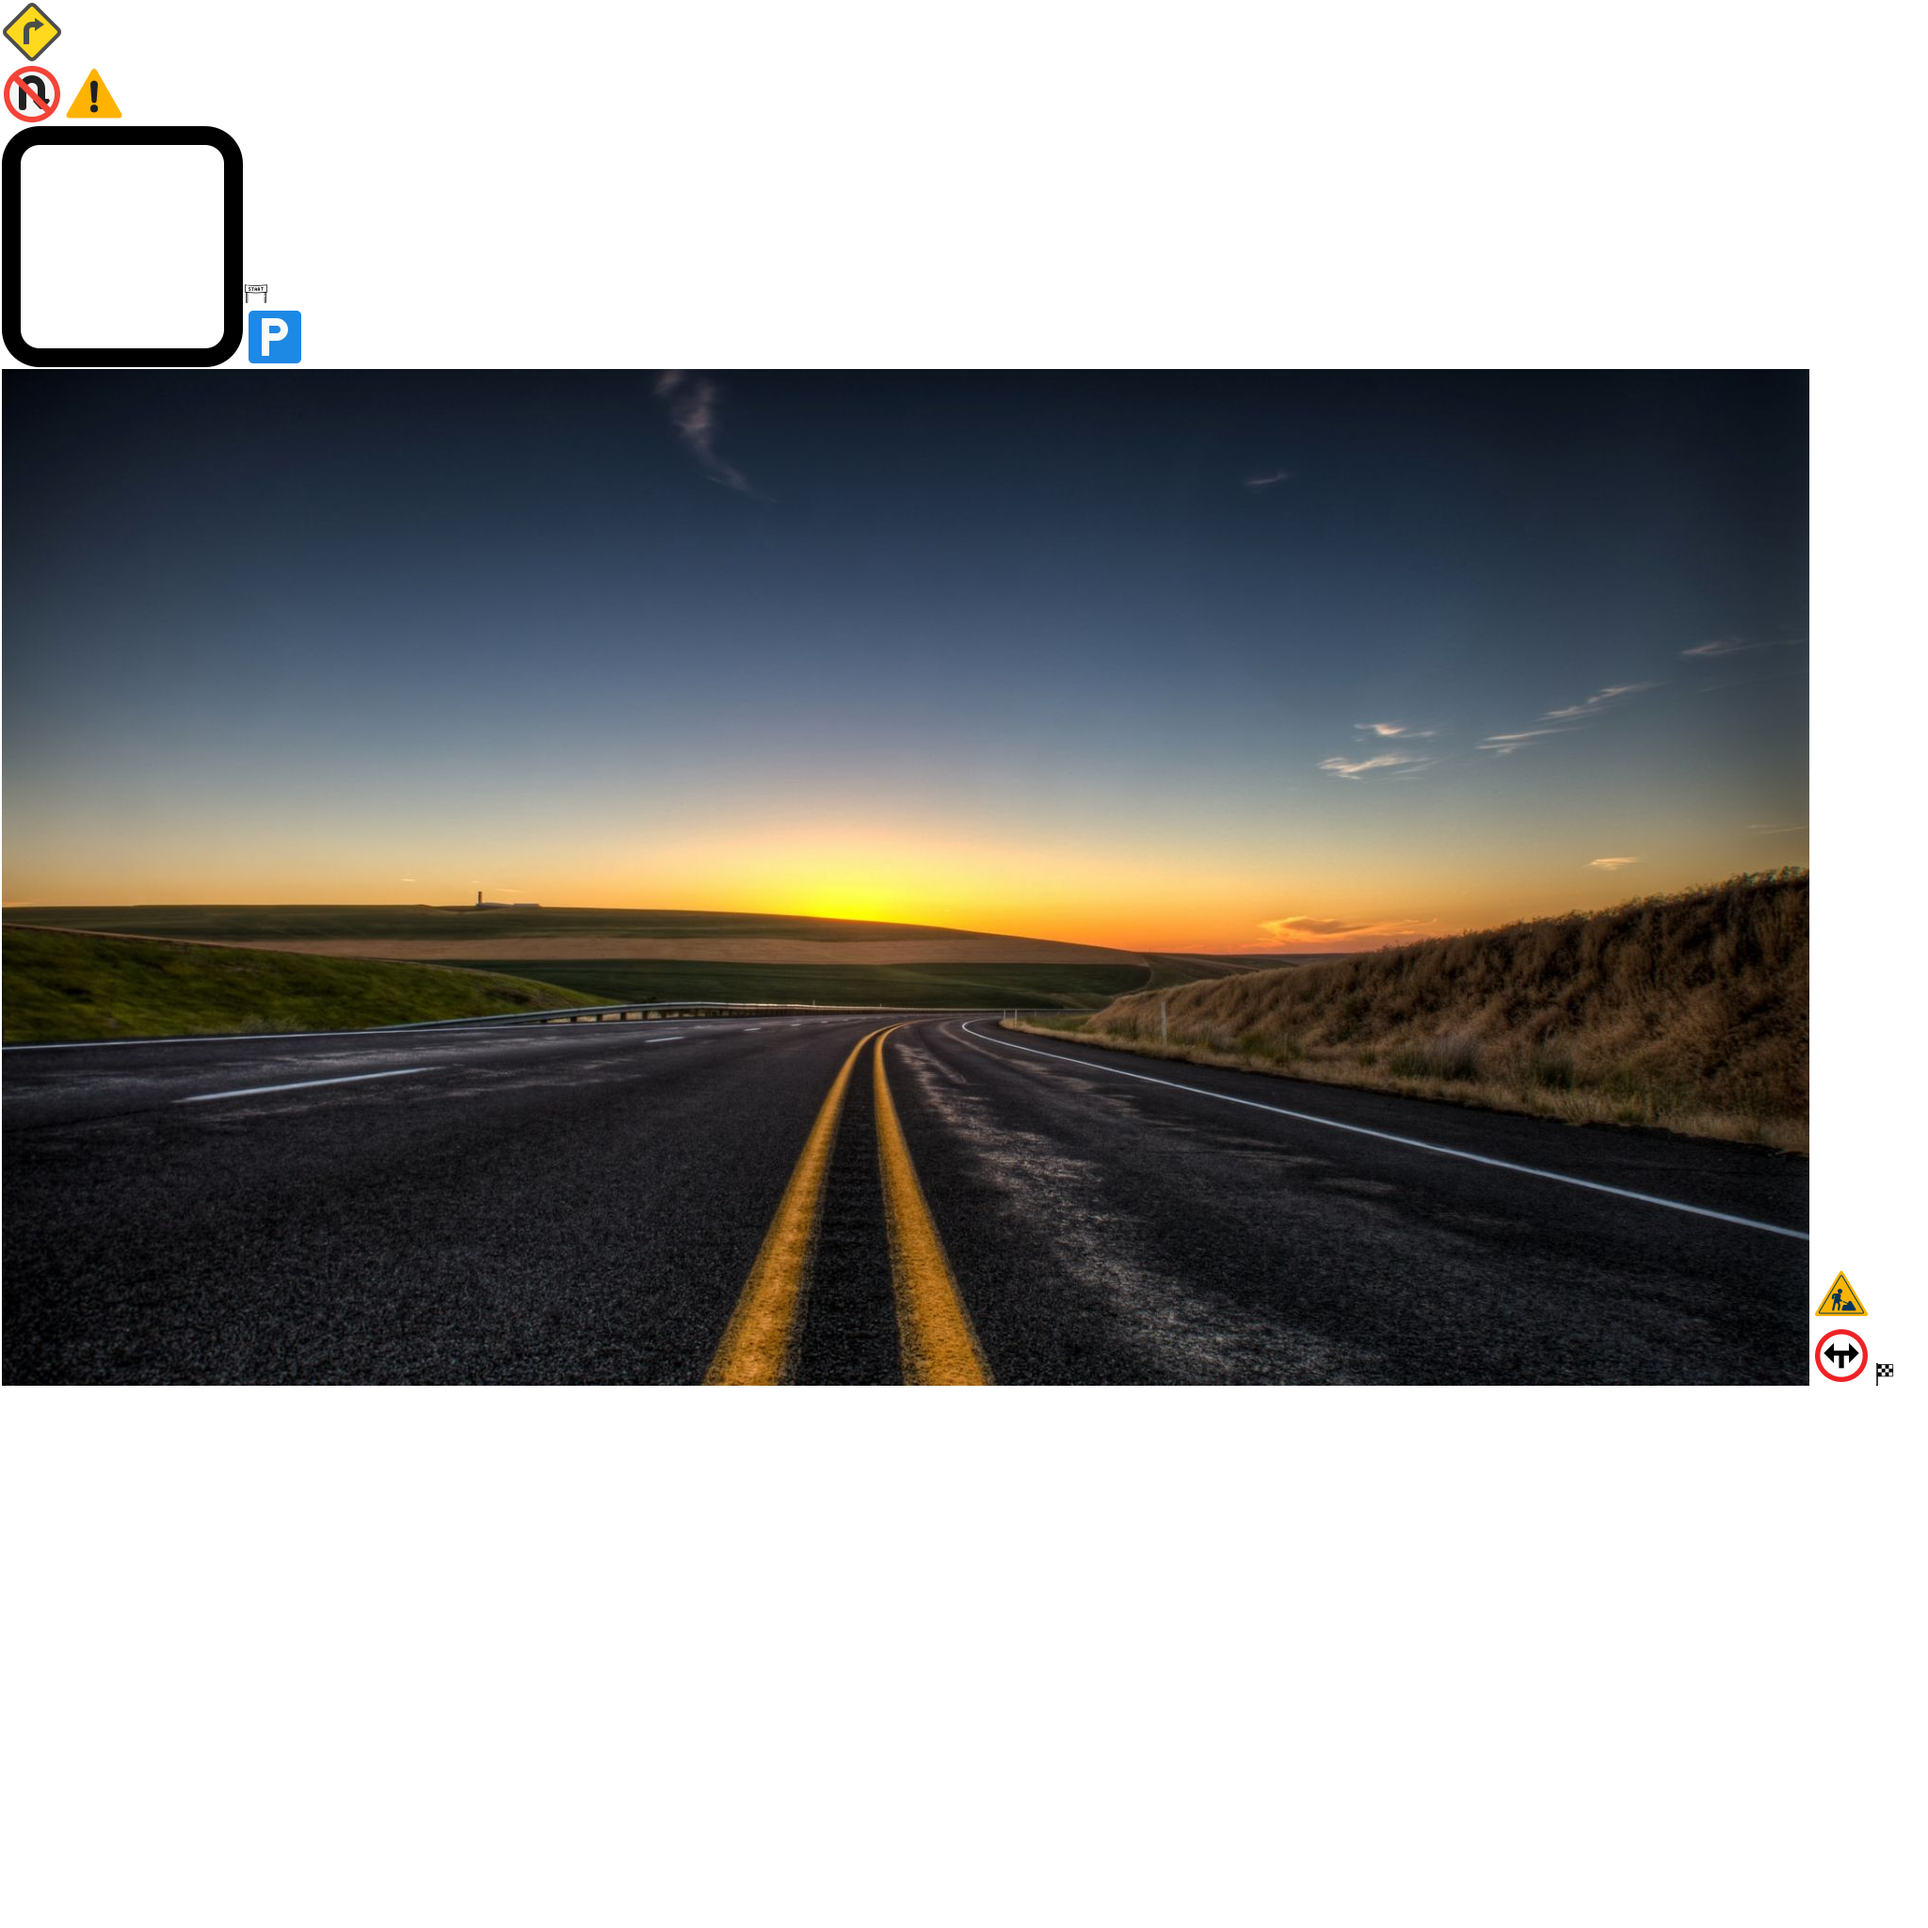
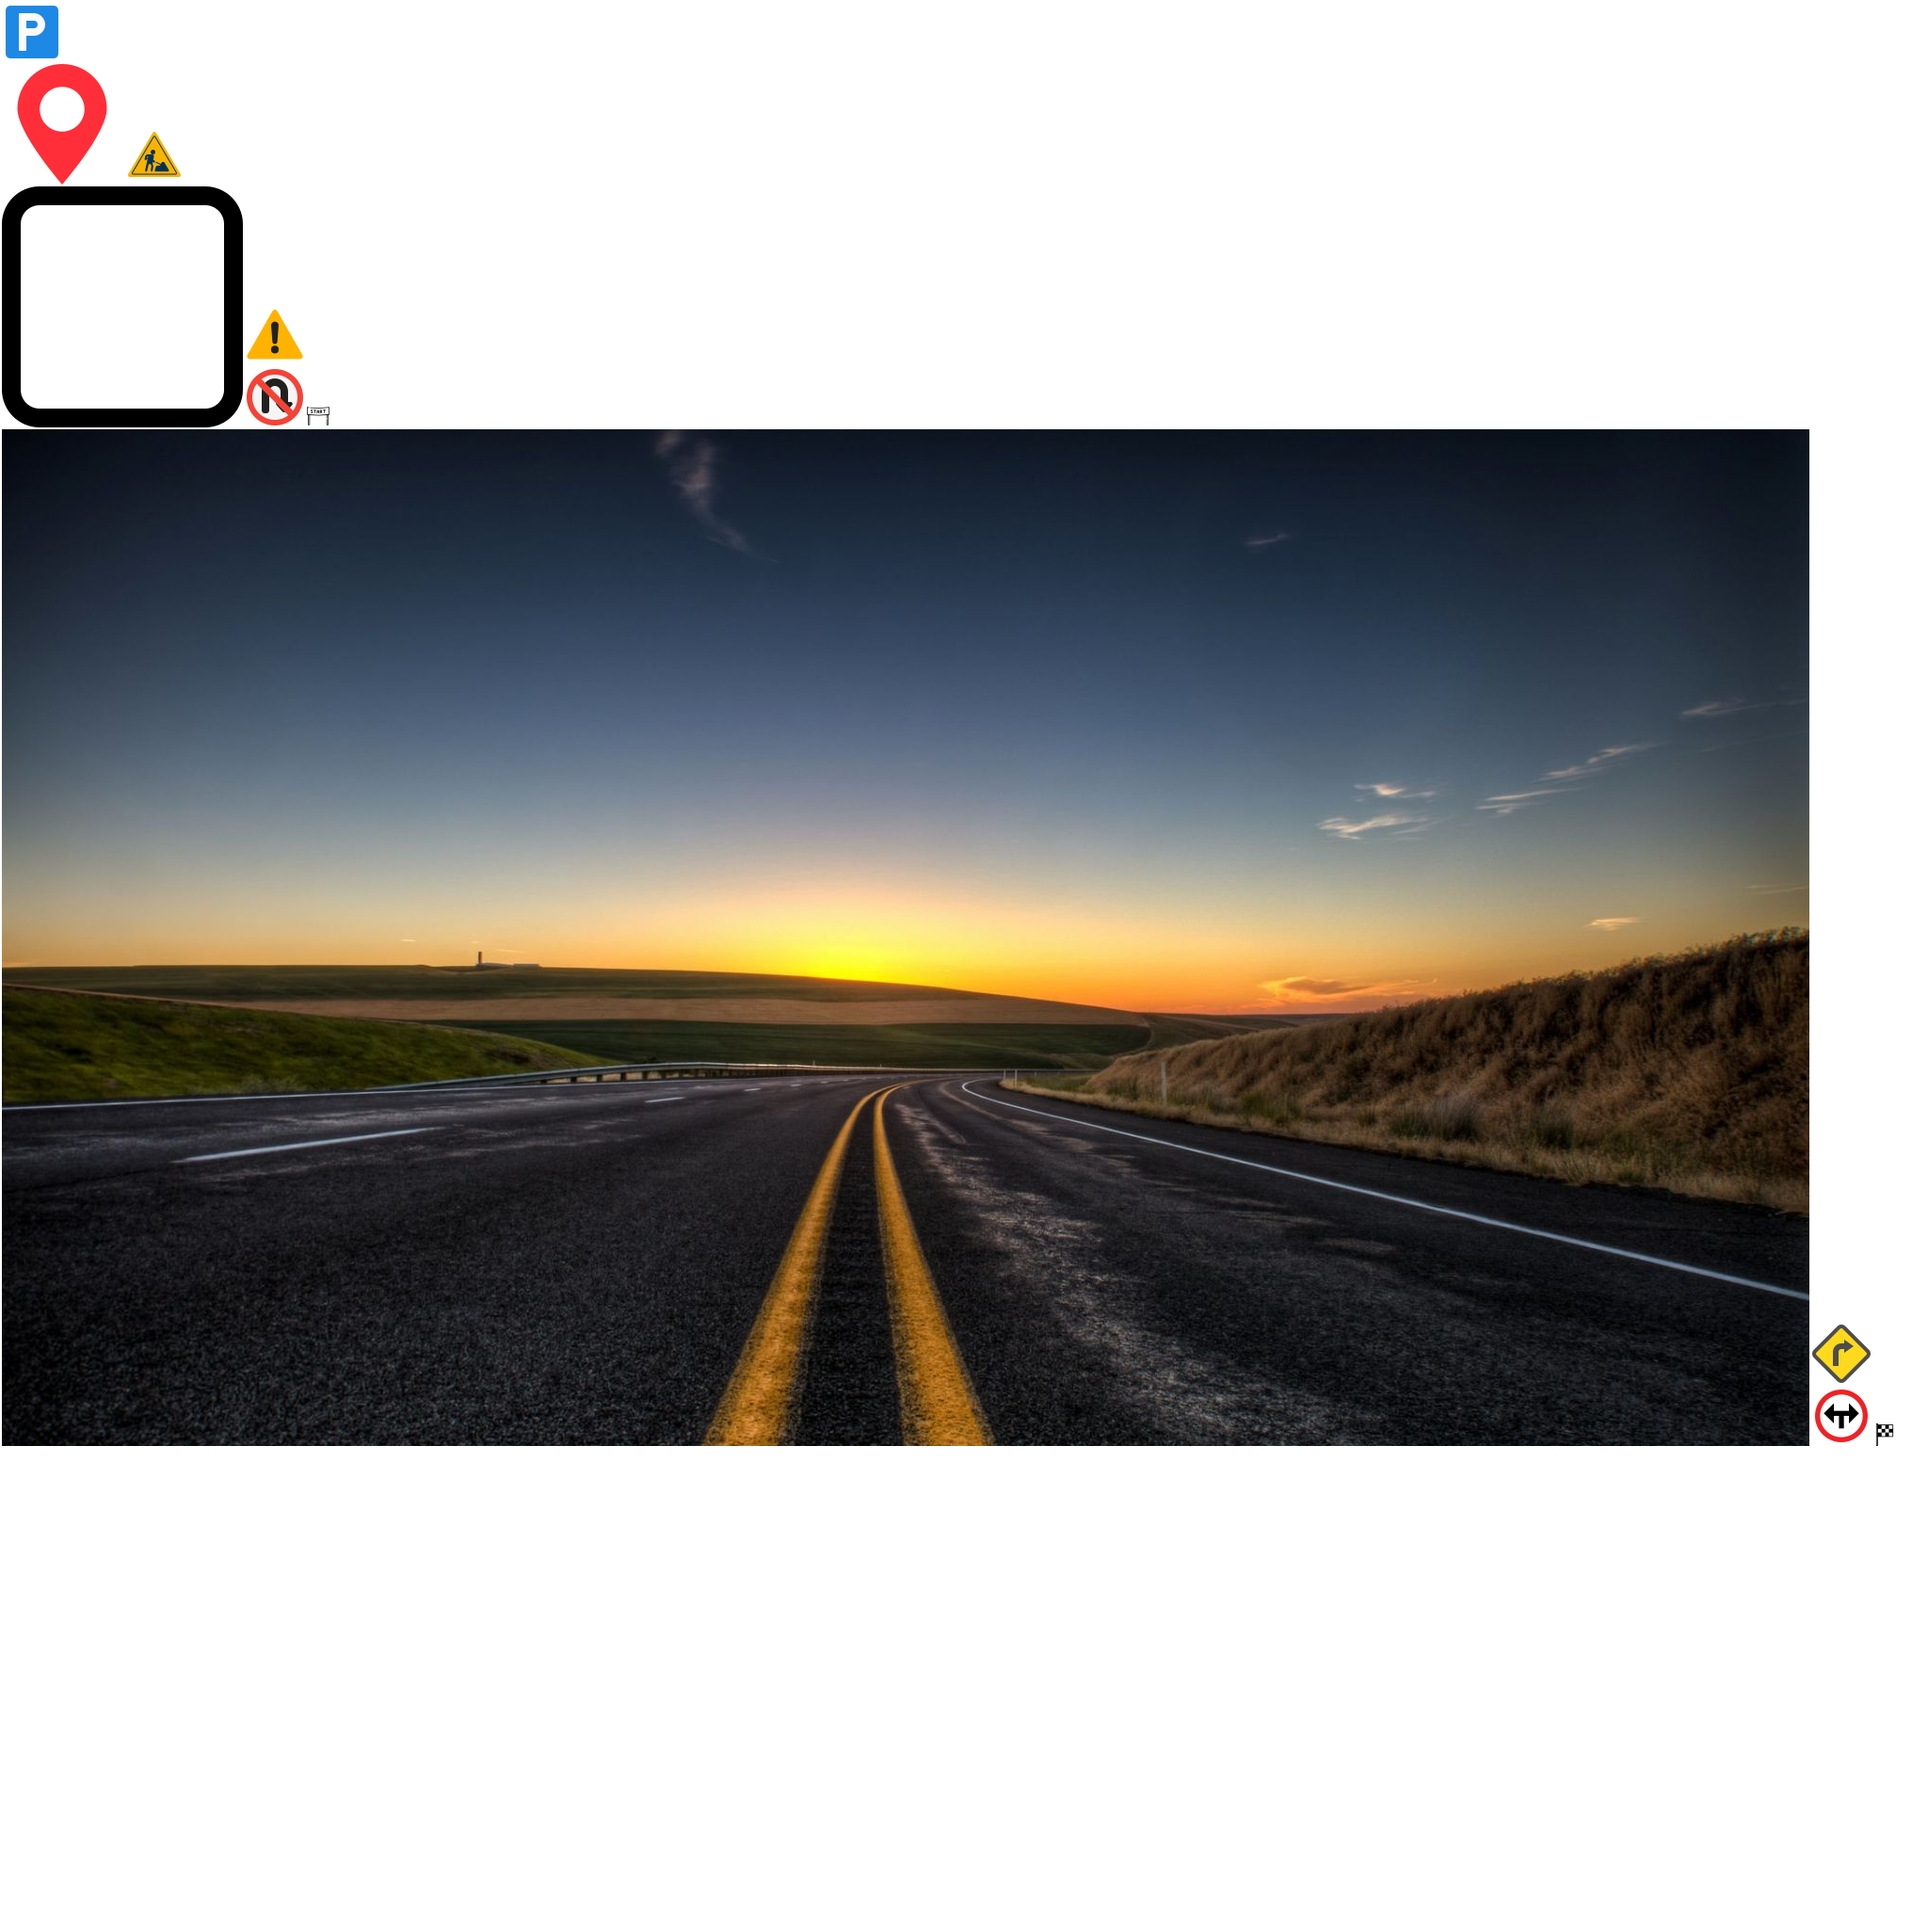
Added marker for db points

diff --git a/RRI_projekt/core/src/main/java/si/um/feri/cestar/screens/GameScreen.java b/RRI_projekt/core/src/main/java/si/um/feri/cestar/screens/GameScreen.java
@@ -87,6 +87,7 @@ public class GameScreen extends ScreenAdapter {
     // Assets
     private TextureRegion startIcon;
     private TextureRegion endIcon;
+    private TextureRegion markerIcon;
     private BitmapFont font;
     private Texture[] mapTiles;
     private ZoomXY beginTile;
@@ -151,6 +152,7 @@ public class GameScreen extends ScreenAdapter {
         TextureAtlas gameplayAtlas = assetManager.get(AssetsDescriptor.GAMEPLAY);
         startIcon = gameplayAtlas.findRegion(RegionNames.START);
         endIcon = gameplayAtlas.findRegion(RegionNames.FINISH);
+        markerIcon = gameplayAtlas.findRegion(RegionNames.MARKER);
 
 
         // Initialize stage for UI (buttons, labels, etc.)
@@ -794,10 +796,10 @@ public class GameScreen extends ScreenAdapter {
 
             // Use a different color or size if the point is highlighted
             if (selectablePoint.isHighlighted) {
-                spriteBatch.draw(startIcon, position.x - 12, position.y - 12, 24, 24);  // Larger icon for highlight
+                spriteBatch.draw(markerIcon, position.x - 12, position.y - 12, 24, 24);  // Larger icon for highlight
                 font.setColor(Color.YELLOW);
             } else {
-                spriteBatch.draw(startIcon, position.x - 8, position.y - 8, 16, 16);  // Normal size
+                spriteBatch.draw(markerIcon, position.x - 8, position.y - 8, 16, 16);  // Normal size
                 font.setColor(Color.BLUE);
             }
             font.draw(spriteBatch, point.getLocationName(), position.x + 10, position.y + 10);

diff --git a/RRI_projekt/core/src/main/java/si/um/feri/cestar/assets/RegionNames.java b/RRI_projekt/core/src/main/java/si/um/feri/cestar/assets/RegionNames.java
@@ -6,4 +6,5 @@ public class RegionNames {
     public static final String FINISH = "finish";
     public static final String WINDOW = "stop";
     public static final String BACKGROUND = "background";
+    public static final String MARKER = "marker";
 }
